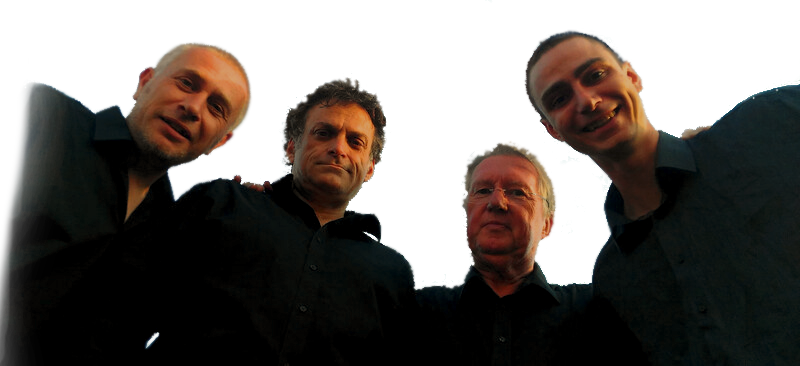
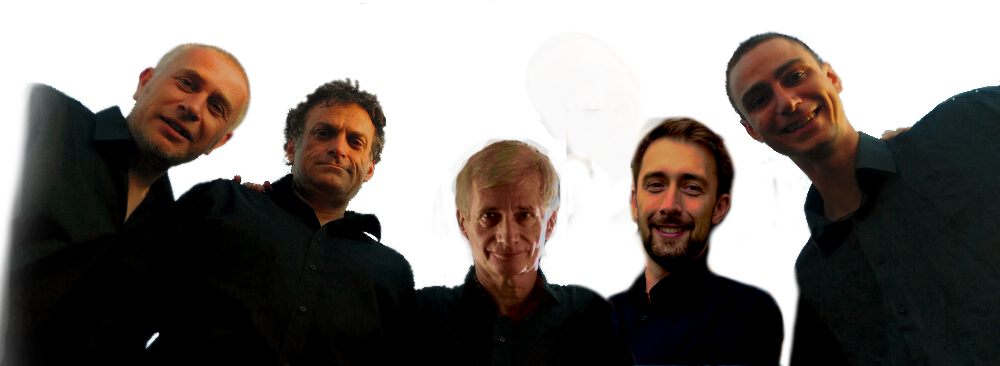
ok

diff --git a/themes/arcana/assets/sass/custom.scss b/themes/arcana/assets/sass/custom.scss
@@ -19,7 +19,7 @@
 
 /* Grand logo */
 #logo {
-    font-size: 7vw;
+    font-size: 6vw;
     color: #F7F7F7;
     white-space: nowrap;
     line-height: 1;

diff --git a/content/infos/Bio.md b/content/infos/Bio.md
@@ -1,4 +1,82 @@
-# Le groupe 
+
+## Les membres du groupe
+ 
+### Présentation 
+
+Depuis 2026, le groupe s'est constitué en un collectif permettant de moduler le nombre de musiciens
+en fonction des demandes et de la localisation des concerts. 
+
+Nos musiciens sont répartis dans différentes régions du territoire, ainsi chaque musicien rejoint le groupe en fonction du lieu du concert.
+
+### Gilles Maire
+
+
+<img src="/images/gilles.jpeg" alt="Gilles" style="float: left; margin-right: 10px; width:120px;"> <a href="https://www.facebook.com/gilles.maire" target="_blank">
+    <img src="https://upload.wikimedia.org/wikipedia/commons/5/51/Facebook_f_logo_%282019%29.svg" alt="Facebook" style="width: 40px; height: 40px;"/></a>
+Gilles écrit les textes et la plupart des musiques, il  assure une interprétation passionnée  derrière sa guitare ou même sans son instrument.
+Son écriture de facture classique se permet  parfois quelques clins d'oeil aux Brassens, Aragon, Dimey, Leprest, Higelin, Grand Corps Malade, les Nadau ...
+.
+Il peut chanter seul sans ses accompagnateurs, défi qu'il relève de temps à autres, mais c'est en bande qu'il préfère  assurer ses concerts.
+
+Gilles a fondé le groupe en 2006 et il a assuré plus de 900 concerts. Il a gagné en 2014 le concours Européen de la chanson à texte de Suzbach. Il a également été lauréat en 2011 du prix Georges Moustaki.
+
+Gilles est situé à Paris et en Bretagne et se déplace facilement  en Europe.
+
+### Ales Bartos
+
+
+<img src="/images/ales.jpg" alt="Ales" style="float: left; margin-right: 10px; width:120px;"> 
+Ales Bartos intervient depuis 2026 dans le groupe en qualité de Contrebassiste.
+
+Il est titulaire d'un DEM de chant lyrique au CRR de Paris où il a également étudié
+la guitare et la contrebasse Jazz.
+
+Il poursuit aujourd'hui une activité musicale régulière en France, en République tchèque et à l'international. À la guitare, à la contrebsse et au chant, il se produit principalement autour de la chanson française, du Jazz et des musiques actuelles. Il joue également au sein d'orchestres et d'ensembles de musique populaire, funk, jazz et rock.
+
+
+Ales est situé en Bretagne et peut se déplacer lors de tournées. 
+
+
+### François Dumon D'Ayot
+
+
+<img src="/images/francois.jpg" alt="François" style="float: left; margin-right: 10px; width:120px;"> 
+Jazzman accompli, François intervient depuis 2026 dans le groupe avec en bouche ses flûtes, saxophones et clarinettes. Il donne au groupe une dimension swing et new orleans qui réjouit le public. 
+
+Lauréat du tremplin Jazz et Migration, il a tourné dans beaucoup de festivals en Europe et a été le complice
+de nombreux jazzmen de renom.
+
+Il est le fondateur du  festival Jazz à Cours et à Jardins et joue également dans sa formation FDA Quartet.
+
+François est situé à Lyon et reste assez mobile.
+
+### Ulysse Loviat
+
+<img src="/images/ulysse.jpg" alt="Ulysse" style="float: left; margin-right: 10px; width:180px;"> Ulysse a rejoint les jetés en 2016 où il assure le rôle de guitariste soliste dans des improvisations déchaînées qui font la joie du public.
+Jeune adulte, Ulysse a effectué un tour du monde en solitaire accompagné de sa guitare et s'est imprégné des musiques des différents pays qu'il a traversés. 
+Ulysse donne des cours de Piano et de Guitare et a mis au point une méthode pour l'apprentissage de la musique aux jeunes. Il est aussi acteur dans une compagnie théâtrale.
+
+Ulysse est situé à Paris et peut être amené à se déplacer.
+
+### Guerran Sellin
+
+ <img src="/images/guerran.jpg" alt="Guerran" style="float: left; margin-right: 10px; width:120px;">Guerran a rejoint le groupe en 2007 et depuis à son déménagement en 2015 dans le sud de la France, il joue de façon plus occasionnelle avec les Jetés de l'Encre en tant que Guitariste.
+ 
+Il est issu du conservatoire de musique de Saint-Denis.
+
+
+Guerran est situé dans le Luberon et peut être amené à se déplacer.
+
+
+
+
+
+
+
+
+
+
+## Le groupe 
 
 Le groupe Les Jetés de l’Encre s’est constitué en 2006 et a commencé à jouer dans des bars et de petites salles parisiennes. Remarqués par une société de production qui proposait de produire notre premier album, nous avons enregistré quelques titres… avant d’apprendre, non sans amusement, que la dite société abandonnait la musique pour investir dans une écurie de chevaux de course.
 
@@ -18,58 +96,15 @@ En 2019, le groupe aménage une cave privée dans le 18e arrondissement de Paris
 
 Depuis la création du groupe, de nombreux musiciens ont participé à l’aventure : Geoffray Milleret, Antoine Lazare, Baptiste Boulat, Alexandre Taveau, Pierre-André Ditroy, Ducho Dellarte, Pascal Lepape, Dan Iffergan, et d’autres, plus ponctuellement. Tous sont restés des amis chers que nous retrouvons toujours avec joie. En vingt ans, le groupe a connu peu de conflits.
 
-Nous pensons aussi à ces musiciens chevronnés qui se sont joints à nous le temps d’une chanson ou d’un concert. La liste serait trop longue… Et comment connaître les noms de ce violoniste du Philharmonique de Sarrebruck qui nous a accompagnés le temps d’un morceau ? De ce saxophoniste croisé un soir d’hiver dans un café du Père-Lachaise ? De cette violoniste à Pau qui a placé de sublimes chorus tout un set durant ? Ou encore de ce violoncelliste qui a joué avec nous au petit théâtre, après avoir travaillé nos chansons grâce aux partitions publiées sur notre site ?
+En juin 2026, notre cher contrebassiste Philippe Schwall nous a quitté pour rejoindre le paradis des contrebassistes après plus de 500 concerts effectués avec nous. Il avait rejoint le groupe en 2011 et avait collaboré au deuxième et troisième album. 
+
+Suite au départ de Philippe, nous nous nous sommes organisé  en collectif de musiciens permettant de jouer dans plusieurs configurations en fonction des localisations des concerts et des disponibilités de chacun.
 
 Notre belle aventure humaine et artistique ne s’est jamais éteinte. Parfois, les demandes ont été plus rares… mais à peine avions-nous le temps de penser à faire une pause qu’une nouvelle proposition de concert surgissait. Aujourd’hui, nous nous déplaçons au gré des invitations, organisant nos tournées autour des nombreux points d’ancrage créés au fil du temps, grâce à notre réseau d’amis et de salles.
 
 Une petite anecdote pour conclure : lors de nos déplacements, nous ne savons jamais à l’avance où nous dormirons. Il nous est souvent arrivé, à la fin d’un concert, de demander si quelqu’un avait une place pour nous héberger. Et parfois, ces personnes sont devenues hôtes de concerts privés… voire même organisateurs de festivals !
 
-C’est sur cette note de fraternité que s’achève cette présentation du groupe. 
-
- 
-# Gilles Maire
-
-
-<img src="/images/gilles.jpeg" alt="Gilles" style="float: left; margin-right: 10px; width:120px;"> <a href="https://www.facebook.com/gilles.maire" target="_blank">
-    <img src="https://upload.wikimedia.org/wikipedia/commons/5/51/Facebook_f_logo_%282019%29.svg" alt="Facebook" style="width: 40px; height: 40px;"/></a>
-Gilles écrit les textes et la plupart des musiques, il  assure une interprétation passionnée  derrière sa guitare ou même sans son instrument.
-Son écriture de facture classique se permet  parfois quelques clins d'oeil aux Brassens, Aragon, Dimey, Leprest, Higelin, Grand Corps Malade, les Nadau ...
-De sa jeunesse de militant occitaniste, il reste marqué et attaché aux musiques traditionnelles : Swing, Manouche, Havaneria, Milonga, Valses tsiganes, Romances slaves, Fado, Boléro, Ranchara. Ce sont des rythmes que l'on retrouve sur scène et sur disque.
-Il peut chanter seul sans ses accompagnateurs, défi qu'il relève de temps à autres, mais c'est en bande qu'il préfère  assurer ses concerts.
-Gilles a fondé le groupe en 2006 et il a assuré plus de 800 concerts. Il a gagné en 2014 le concours Européen de la chanson à texte de Suzbach où les candidats avaient droit à un seul instrument en plus de leur voix.
-
-
-
-# Philippe Schwall
-
-
-<img src="/images/philippe.jpeg" alt="Philippe" style="float: left; margin-right: 10px; width:120px;">
-Philippe nous a quitté pour rejoindre le paradis des contrebassistes. Il jouait de la guitare, de la basse et de la  contrebasse.  Il 
-faisait également partie de  groupes de Rockabilly ou de reprises des Beatles, de BlueGrass et de Rockabilly.
-
-Il avait rejoint le groupe en 2011 où il a assuré près de de 500 concerts et avait collaboré au deuxième et troisième album. 
-
-Depuis sa disparition qui nous a beaucoup peinés nous avons décidé de continuer en ouvrant le groupe à de nouveaux musiciens, Gilles se produira parfois en solo parfois en bande organisée. 
-
-
-# Ulysse Loviat
-
-<img src="/images/ulysse.jpg" alt="Ulysse" style="float: left; margin-right: 10px; width:180px;"> Benjamin du groupe Ulysse a rejoint les jetés en 2016 où il assure le rôle de guitariste soliste dans des improvisations déchaînées qui font la joie du public.
-Jeune adulte, Ulysse a effectué un tour du monde en solitaire accompagné de sa guitare et s'est imprégné des musiques des différents pays qu'il a traversé. C'est ce goût pour les musiques du monde qui lui a plu dans le groupe et l'a probablement décidé à le rejoindre.
-Ulysse donne des cours de Piano et de Guitare et a mis au point une méthode pour l'apprentissage de la musique aux jeunes. Il est aussi acteur dans une compagnie théâtrale.
-
-
-
-# Guerran Sellin
-
- <img src="/images/guerran.jpg" alt="Guerran" style="float: left; margin-right: 10px; width:120px;">Guerran a rejoint le groupe en 2007 et suite à son déménagement en 2015, il joue de façon plus occasionnelle avec les Jetés de l'Encre.
- Guerran est issu du conservatoire de musique de Saint-Denis.
-
-
-
-
-
-
+C’est sur cette note de fraternité que s’achève cette histoire du groupe. 
 
 
 
